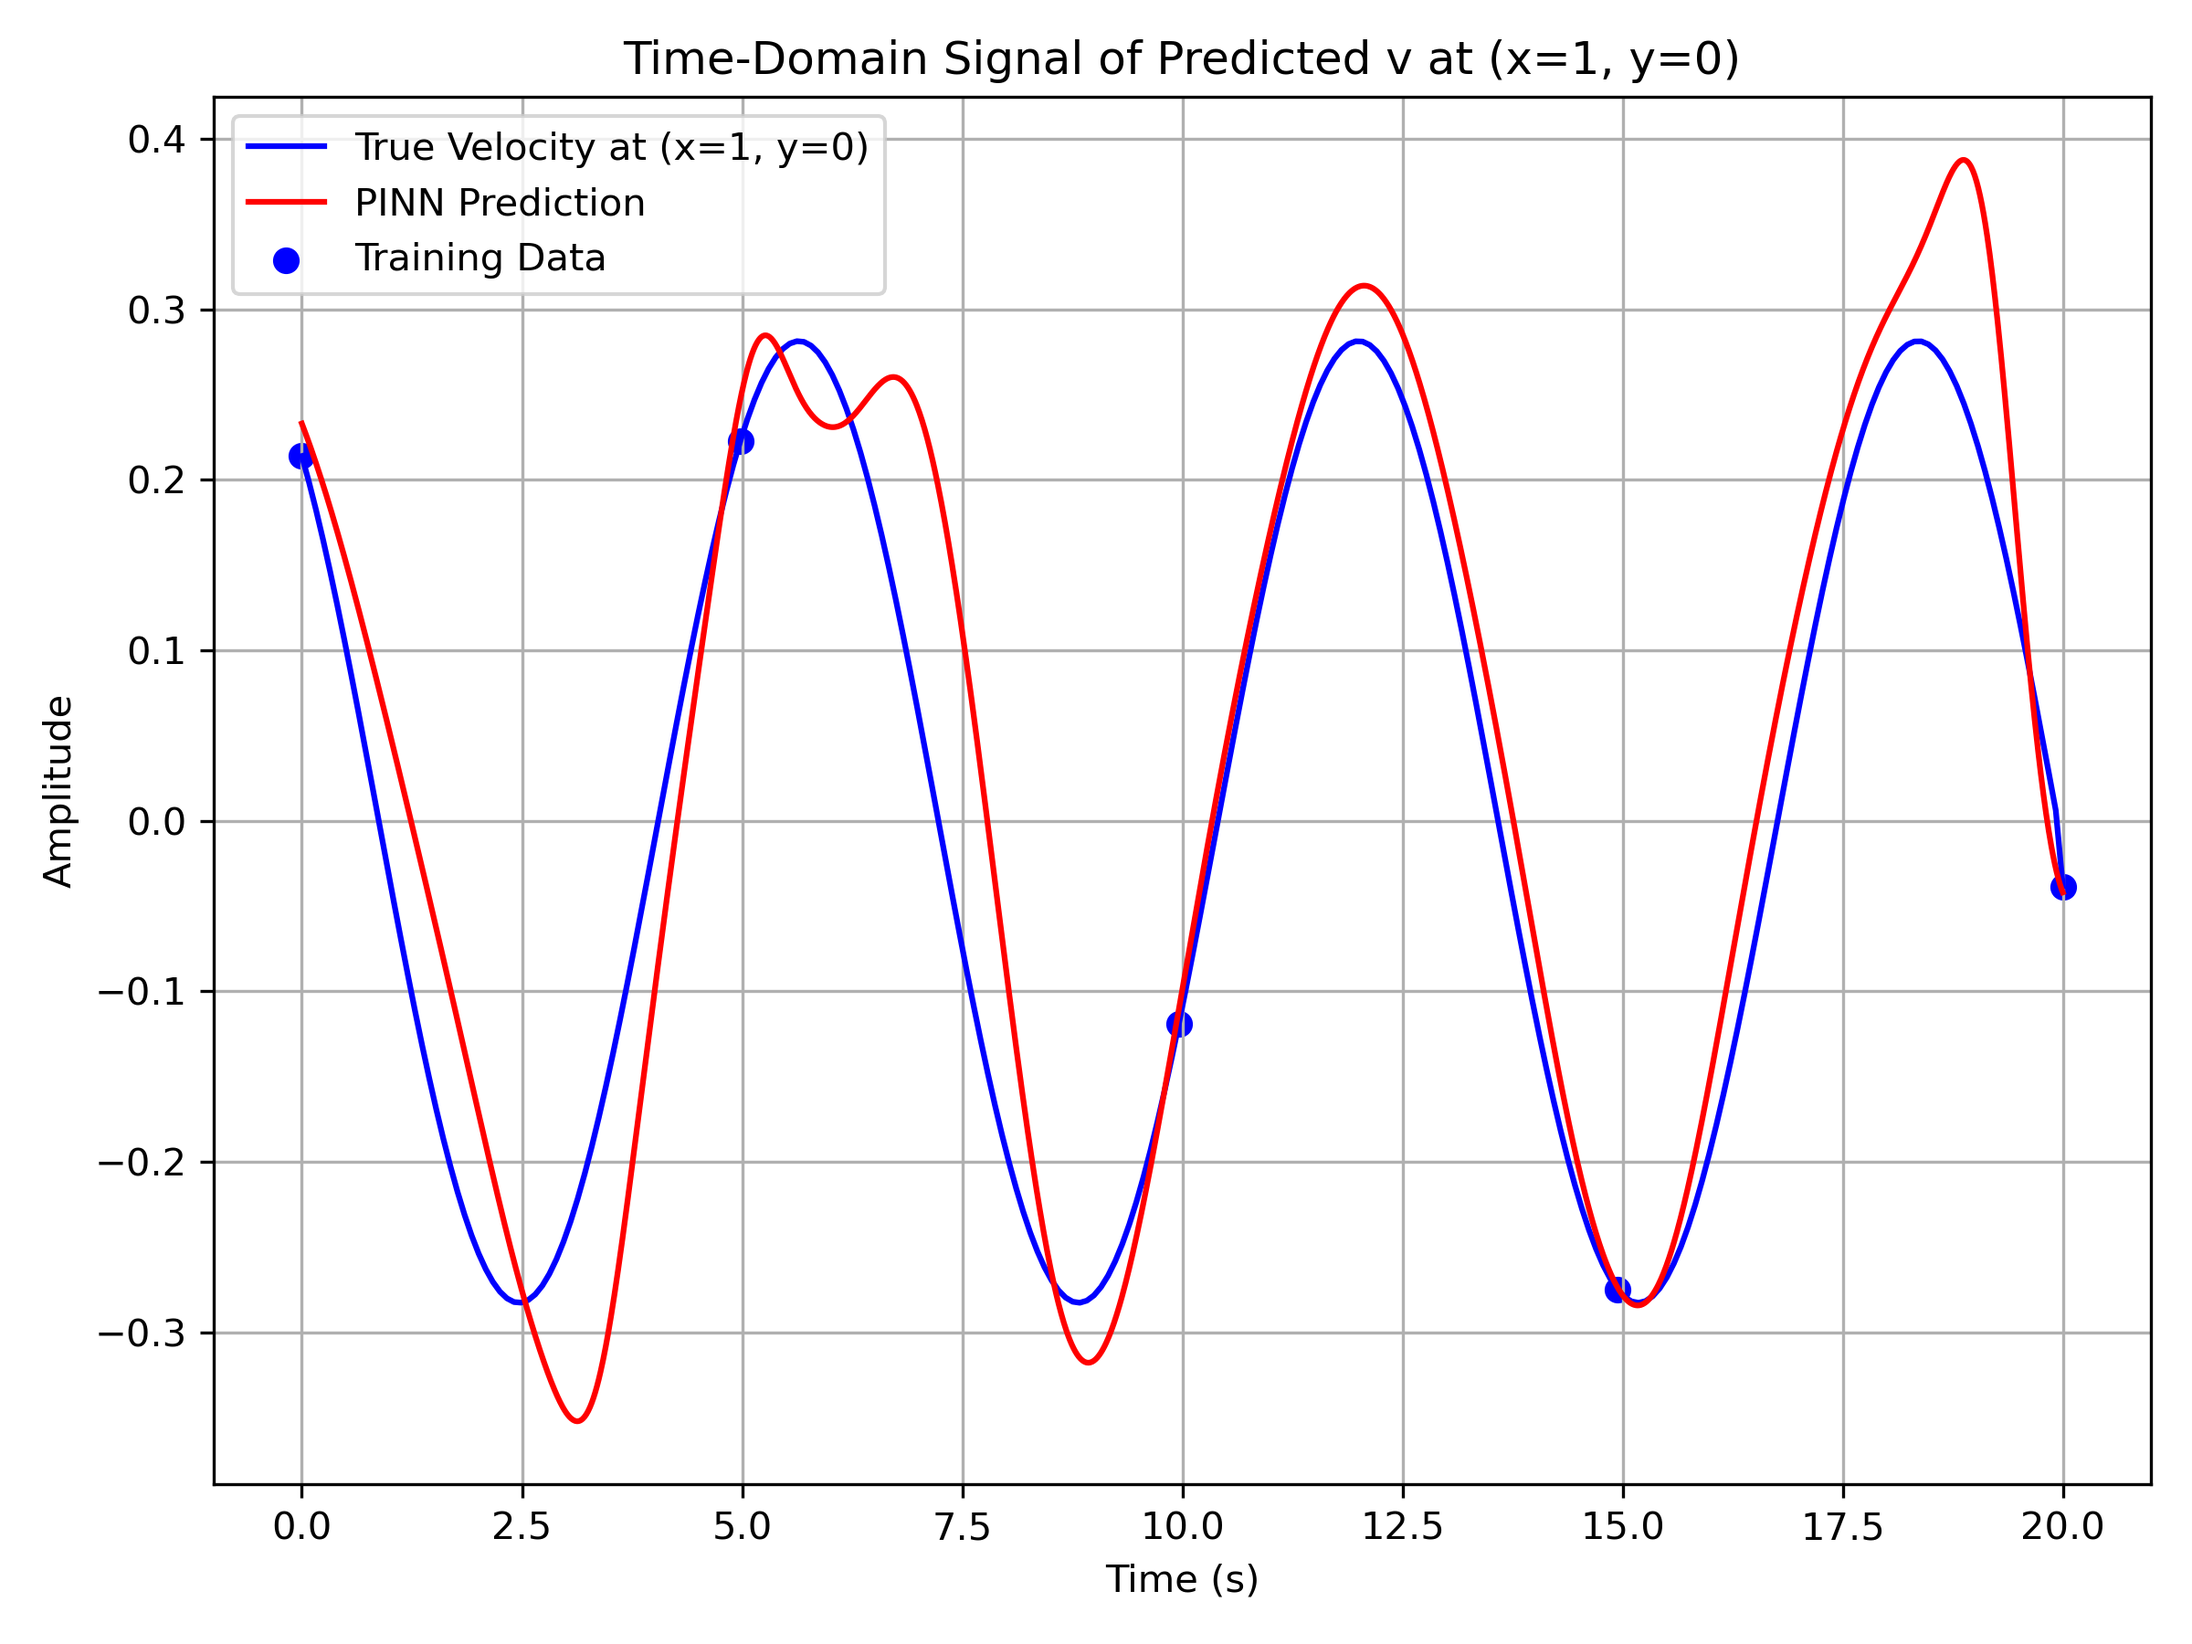
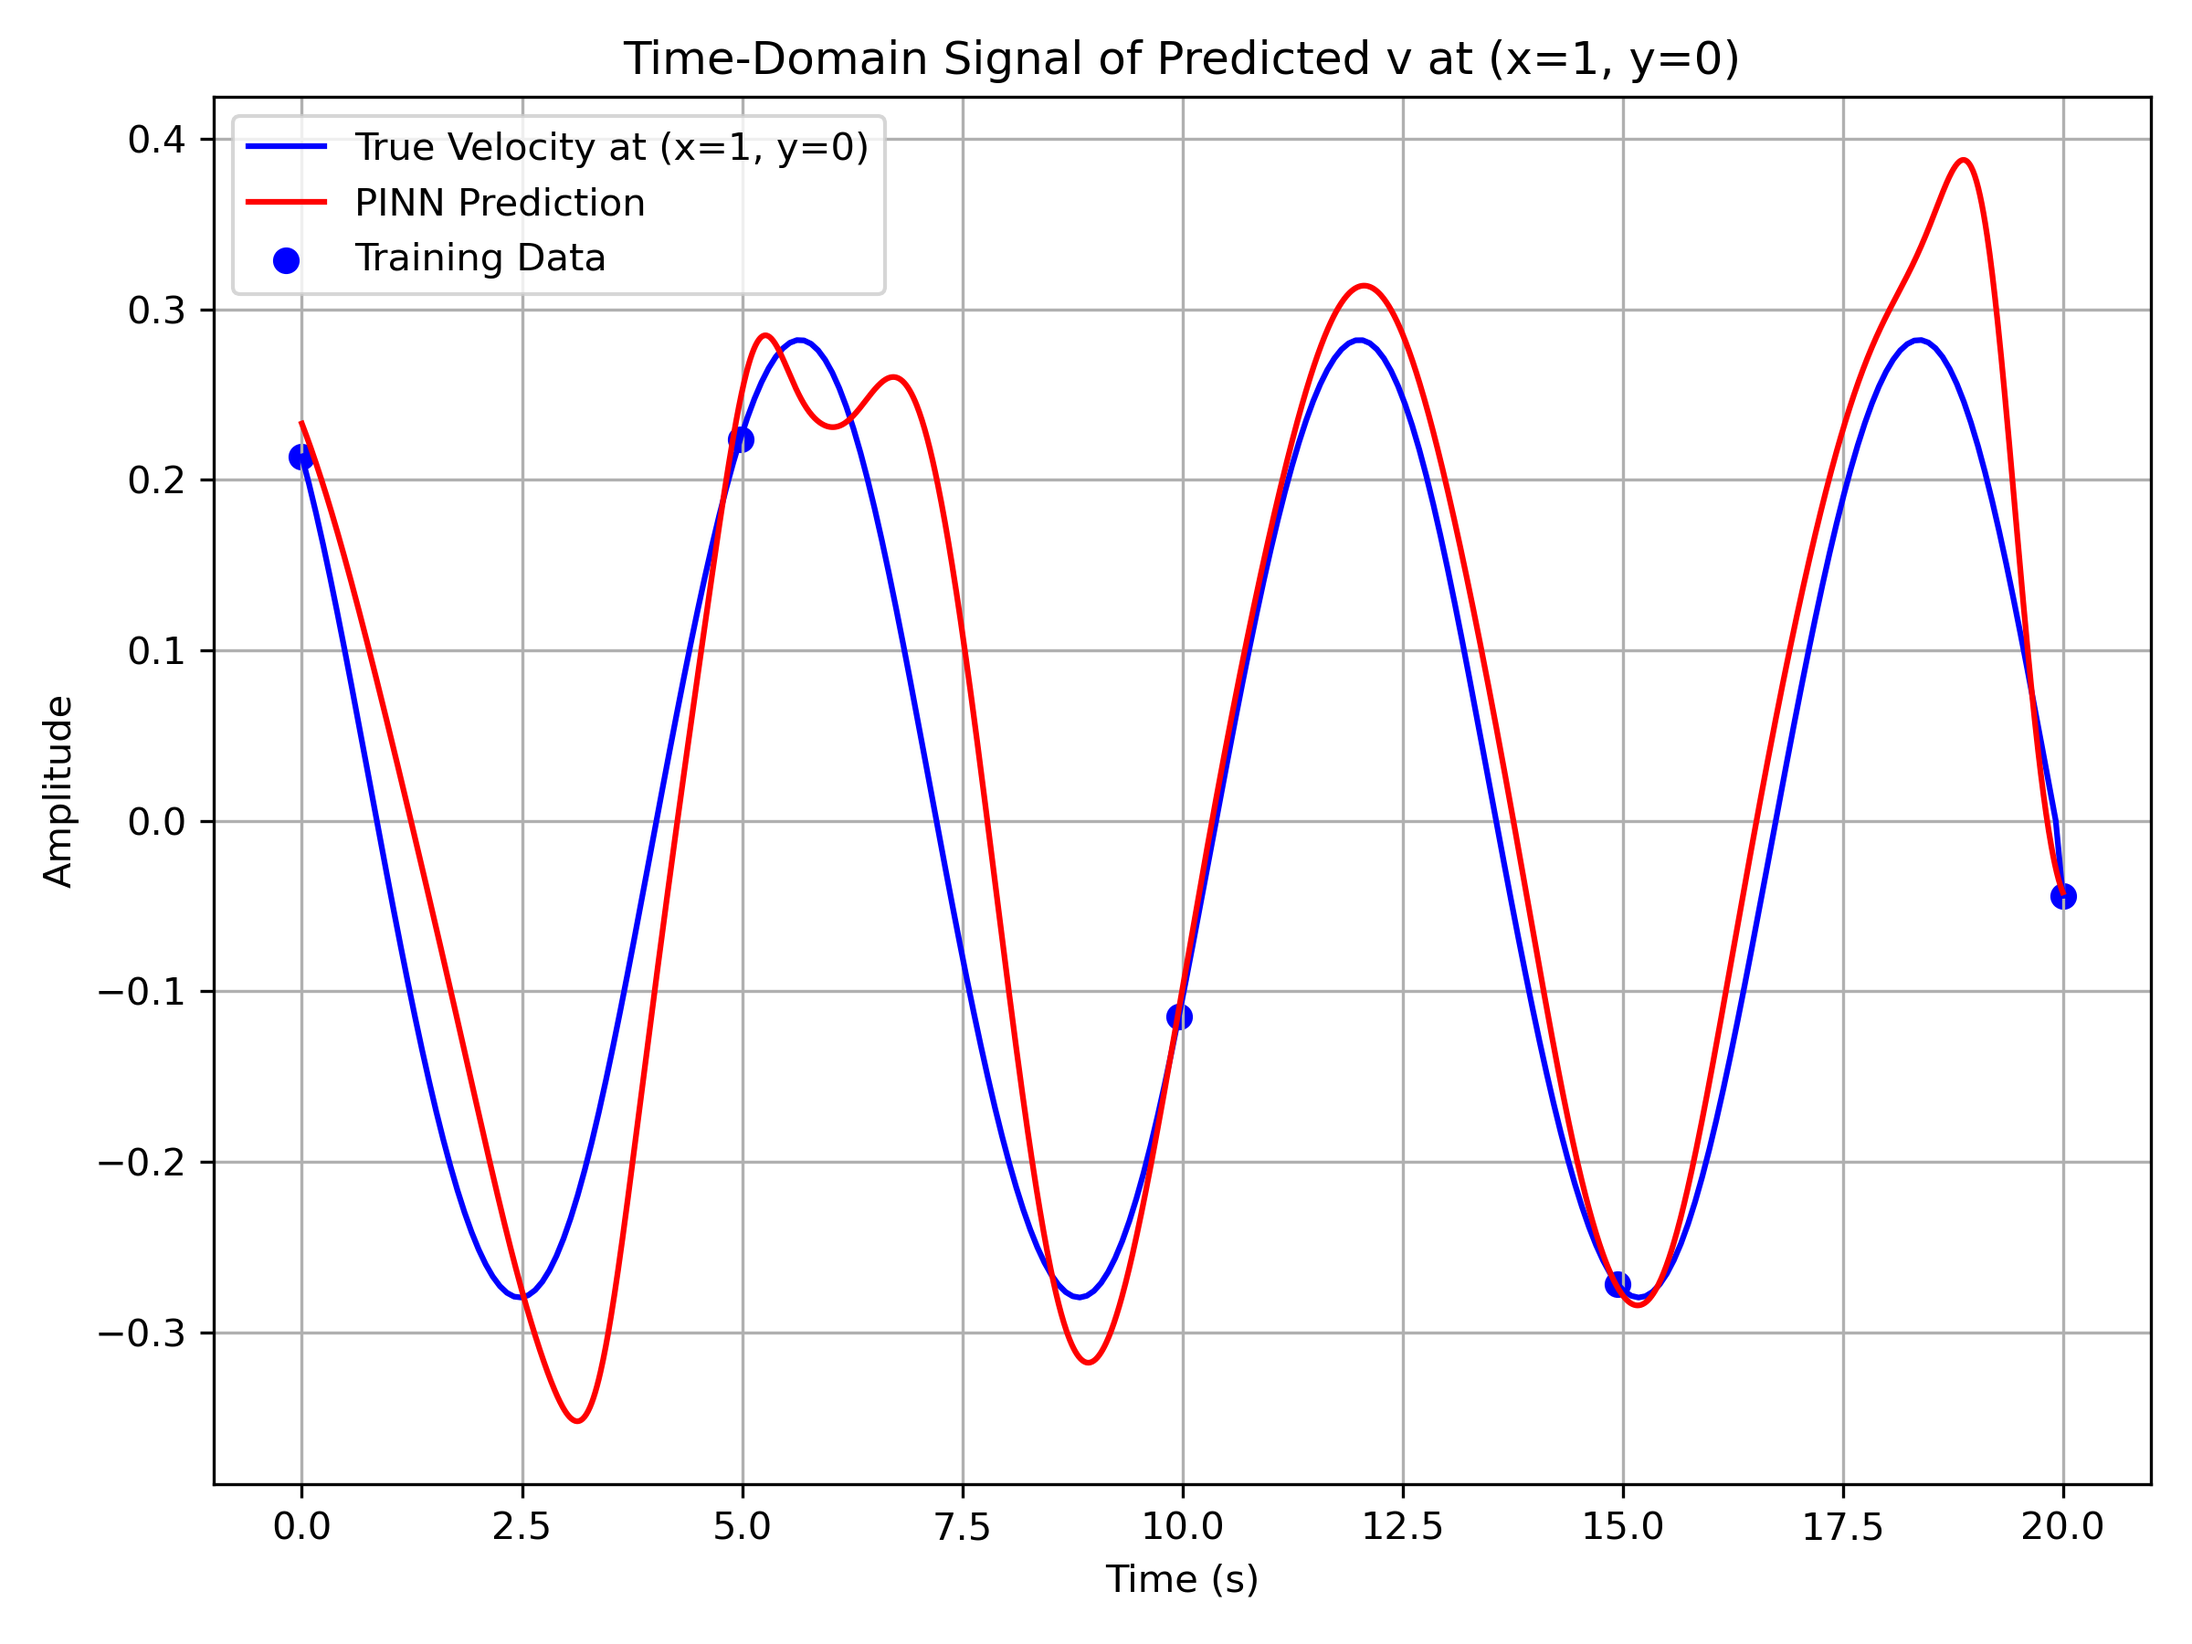
More Report Writing

Changed region(s): [[0.9375, 0.5289, 0.9688, 0.56], [0.4688, 0.7778, 0.5, 0.8089], [0.2188, 0.7778, 0.25, 0.8089]]

diff --git a/evaluation.py b/evaluation.py
@@ -5,7 +5,7 @@ from pinn.FFT import FFT
 from TL import layers_to_freeze, Re_TL
 
 # Define the path to the directory containing the models
-#run_ID = f'{run_ID}_TLnyq4snap{Re_TL}_{layers_to_freeze}' # Use this for the TL models not standard models
+run_ID = f'{run_ID}_TLnyq{Re_TL}_{layers_to_freeze}' # Use this for the TL models not standard models
 model_dir = f'models/{run_ID}/'
 
 # List all model files in the directory
@@ -25,12 +25,12 @@ for model_file in model_files:
     model_file_no_ext, _ = os.path.splitext(model_file)
 
 # Pass the modified filename for saving plots
-    results = evaluate_model(
+    '''results = evaluate_model(
         Re_TL, 
         0, 
         f'models/{run_ID}/{model_file}', 
         f'plots/{run_ID}/{model_file_no_ext}/'
-    )
+    )'''
     
     run_FFT = FFT(
         f'plots/{run_ID}/{model_file_no_ext}/',

diff --git a/plotter.py b/plotter.py
@@ -67,8 +67,8 @@ p_data = scipy.io.loadmat(f'{data_path}pstar')['pstar']
 # Prepare test data
 x_test = coord_data[:, 0:1]
 y_test = coord_data[:, 1:2]
-u_test = vel_data[:, 0, 156]
-v_test = vel_data[:, 1, 156]
+u_test = vel_data[:, 0, 0]
+v_test = vel_data[:, 1, 0]
 
 # Create regular grid
 x = x_test.flatten()
@@ -98,8 +98,6 @@ ax.set_xlabel("x")
 ax.set_ylabel("y")
 ax.set_title("Streamwise Velocity (u) at t = 0")
 ax.set_aspect("equal")
-ax.set_xlim(1,8)
-ax.set_ylim(-2,2)
 plt.tight_layout()
 plt.savefig('report_plots/u_example0', dpi=300)
 plt.show()

diff --git a/pinn/config.py b/pinn/config.py
@@ -28,8 +28,8 @@ LAYERS = [3, 20, 20, 20, 20, 20, 20, 20, 20, 2]
 
 # Training parameters
 LEARNING_RATE = 0.001
-Re = 150    # Set Reynolds number 
+Re = 100    # Set Reynolds number 
 nIter = 10000     # Number of training iterations
-run_ID = f'Re{Re}bad'      #Unique identifier for the run
+run_ID = f'Re{Re}wcp'      #Unique identifier for the run
 
 print("Configuration loaded.")

diff --git a/TL.py b/TL.py
@@ -22,7 +22,7 @@ os.makedirs(plots_dir, exist_ok=True)
 
 # Load or process data
 data = process_reynolds_data(Re_TL)
-visualize_velocity_contours(data, save_path=f'{plots_dir}/{run_ID}{Re_TL}_training_data.gif')
+#visualize_velocity_contours(data, save_path=f'{plots_dir}/{run_ID}{Re_TL}_training_data.gif')
 
 # Extract processed training data
 x_train = data['x_train']

diff --git a/pinn/FFT.py b/pinn/FFT.py
@@ -81,7 +81,7 @@ def FFT(save_dir, model_path, Re_TL, x=1, y=0):
     plt.savefig(f"{save_dir}/FFT", dpi=300)
     plt.close()
 
-    train_indices = np.linspace(0, len(unique_times) - 1, 4, dtype=int)
+    train_indices = np.linspace(0, len(unique_times) - 1, 5, dtype=int)
     train_points = unique_times[train_indices]
     v_train_points = v_interp[train_indices]
 

diff --git a/training.py b/training.py
@@ -13,7 +13,7 @@ os.makedirs(plots_dir, exist_ok=True)
 
 # Load or process data
 data = process_reynolds_data(Re)
-visualize_velocity_contours(data, save_path=f'plots/{run_ID}/{run_ID}_training_data.gif')
+#visualize_velocity_contours(data, save_path=f'plots/{run_ID}/{run_ID}_training_data.gif')
 
 # Extract processed training data
 x_train = data['x_train']
